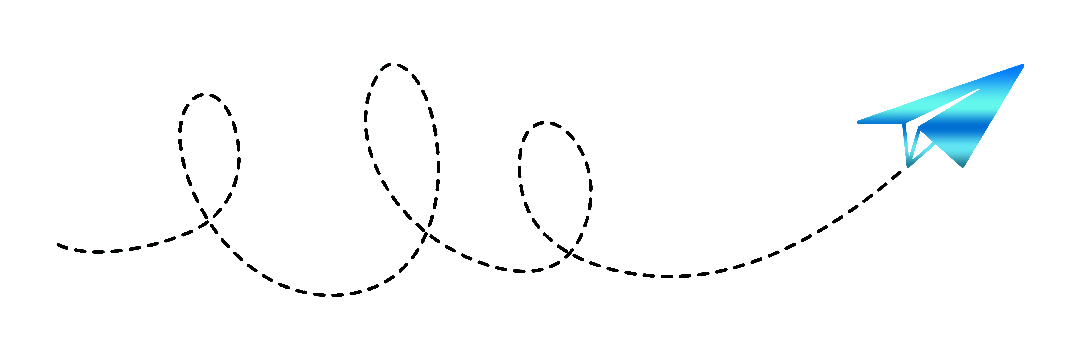
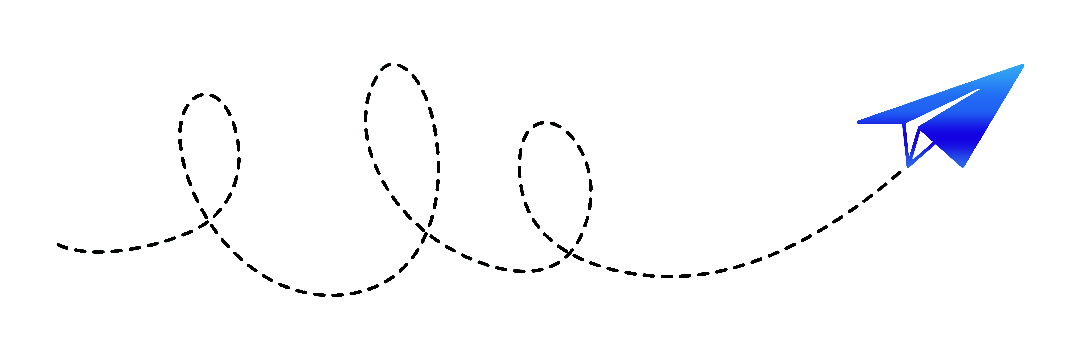
General update

Changed region(s): [[0.7937, 0.1833, 0.9463, 0.4583]]

diff --git a/src/app/profile/ProfileClient.tsx b/src/app/profile/ProfileClient.tsx
@@ -273,7 +273,7 @@ const ProfileClient: React.FC<ProfileClientProps> = ({
       // setPopupMessage('Withdraw method saved!');
       toast.success('Withdraw method saved!', {
         iconTheme: {
-            primary: 'linear-gradient(135deg, #08e2ff, #04aaff, #0066ff, #6adcff, #ffffff)',
+            primary: 'linear-gradient(135deg, #08e2ff, #04aaff, #0066ff, #0066ff, #ffffff)',
             secondary: '#fff',
         }
       });
@@ -293,7 +293,7 @@ const ProfileClient: React.FC<ProfileClientProps> = ({
       // setPopupMessage('Withdraw method deleted!');
       toast.success('Withdraw method deleted!', {
         iconTheme: {
-            primary: 'linear-gradient(135deg, #08e2ff, #04aaff, #0066ff, #6adcff, #ffffff)',
+            primary: 'linear-gradient(135deg, #08e2ff, #04aaff, #0066ff, #0066ff, #ffffff)',
             secondary: '#fff',
         }
       });
@@ -440,7 +440,7 @@ const ProfileClient: React.FC<ProfileClientProps> = ({
                 "w-[60px] h-[60px] rounded-full flex items-center justify-center text-white font-bold text-xl bg-black",
               )}
               // style={{
-              //   background: 'linear-gradient(135deg, #08e2ff, #04aaff, #0066ff, #6adcff, #ffffff)',
+              //   background: 'linear-gradient(135deg, #08e2ff, #04aaff, #0066ff, #0066ff, #ffffff)',
               // }}
               >
                 {initials}
@@ -801,7 +801,7 @@ const ProfileClient: React.FC<ProfileClientProps> = ({
                           // setPopupMessage('Password updated successfully!');
                           toast.success('Password updated successfully!', {
                             iconTheme: {
-                                primary: 'linear-gradient(135deg, #08e2ff, #04aaff, #0066ff, #6adcff, #ffffff)',
+                                primary: 'linear-gradient(135deg, #08e2ff, #04aaff, #0066ff, #0066ff, #ffffff)',
                                 secondary: '#fff',
                             }
                           });
@@ -1422,7 +1422,7 @@ const ProfileClient: React.FC<ProfileClientProps> = ({
                       // setPopupMessage('Card saved successfully!');
                       toast.success('Card saved successfully!', {
                         iconTheme: {
-                            primary: 'linear-gradient(135deg, #08e2ff, #04aaff, #0066ff, #6adcff, #ffffff)',
+                            primary: 'linear-gradient(135deg, #08e2ff, #04aaff, #0066ff, #0066ff, #ffffff)',
                             secondary: '#fff',
                         }
                       });

diff --git a/src/app/components/Footer.tsx b/src/app/components/Footer.tsx
@@ -1,7 +1,10 @@
 'use client';
 import { useState } from 'react';
-import { TbBrandTelegram, TbBrandTiktok, TbBrandInstagram, TbBrandFacebook, TbBrandX } from 'react-icons/tb';
+import { FaTelegram } from "react-icons/fa";
+import { FaYoutube } from "react-icons/fa";
 import { FiYoutube } from "react-icons/fi";
+import { PiTiktokLogoFill } from "react-icons/pi";
+import { PiInstagramLogoFill } from "react-icons/pi";
 import useMessenger from '@/app/hooks/useMessager';
 import Modal from './modals/Modal';
 import useLoginModal from '../hooks/useLoginModal';
@@ -306,16 +309,16 @@ const Footer: React.FC<FooterProps> = ({ currentUser }) => {
           {/* <h3 className="font-semibold text-lg mb-4 underline">Social channels</h3> */}
             <div className="flex space-x-4 text-xl">
               <div className=''>
-                <a href="#"><TbBrandTelegram className="hover:text-[#3604ff] text-3xl transition" /></a>
+                <a href="#"><FaTelegram className="hover:text-[#3604ff] text-3xl transition" /></a>
                 </div>
               <div className=''>
-                <a href="#"><FiYoutube className="hover:text-[#3604ff] text-3xl transition" /></a>
+                <a href="#"><FaYoutube className="hover:text-[#3604ff] text-3xl transition" /></a>
                 </div>
               <div className=''>
-                <a href="#"><TbBrandTiktok className="hover:text-[#3604ff] text-3xl transition" /></a>
+                <a href="#"><PiTiktokLogoFill className="hover:text-[#3604ff] text-3xl transition" /></a>
                 </div>
               <div className=''>
-                <a href="#"><TbBrandInstagram className="hover:text-[#3604ff] text-3xl transition" /></a>
+                <a href="#"><PiInstagramLogoFill className="hover:text-[#3604ff] text-3xl transition" /></a>
                 </div>
             </div>
         </div>

diff --git a/src/app/trips/TripsClient.tsx b/src/app/trips/TripsClient.tsx
@@ -61,7 +61,7 @@ const TripsClient: React.FC<TripsClientProps> = ({
   //       .then(() => {
   //         toast.success('Reservation cancelled!', {
   //           iconTheme: {
-  //               primary: 'linear-gradient(135deg, #08e2ff, #04aaff, #3604ff, #6adcff, #ffffff)',
+  //               primary: 'linear-gradient(135deg, #3d08ff, #04aaff, #3604ff, #0066ff, #3d08ff)',
   //               secondary: '#fff',
   //           }
   //       });
@@ -114,7 +114,7 @@ const TripsClient: React.FC<TripsClientProps> = ({
       });
       toast.success('Cancellation request submitted.', {
         iconTheme: {
-          primary: 'linear-gradient(135deg, #08e2ff, #04aaff, #3604ff, #6adcff, #ffffff)',
+          primary: 'linear-gradient(135deg, #3d08ff, #04aaff, #3604ff, #0066ff, #3d08ff)',
           secondary: '#fff',
         }
       });
@@ -146,7 +146,7 @@ const TripsClient: React.FC<TripsClientProps> = ({
       await axios.delete(`/api/reservations/${id}`);
       toast.success('Reservation cancelled!', {
         iconTheme: {
-          primary: 'linear-gradient(135deg, #08e2ff, #04aaff, #3604ff, #6adcff, #ffffff)',
+          primary: 'linear-gradient(135deg, #3d08ff, #04aaff, #3604ff, #0066ff, #3d08ff)',
           secondary: '#fff',
         }
       });
@@ -187,7 +187,7 @@ const TripsClient: React.FC<TripsClientProps> = ({
   
       toast.success('Review submitted!', {
         iconTheme: {
-            primary: 'linear-gradient(135deg, #08e2ff, #04aaff, #3604ff, #6adcff, #ffffff)',
+            primary: 'linear-gradient(135deg, #3d08ff, #04aaff, #3604ff, #0066ff, #3d08ff)',
             secondary: '#fff',
         },
       });

diff --git a/src/app/moderation/ModerClient.tsx b/src/app/moderation/ModerClient.tsx
@@ -80,7 +80,7 @@ const ModerationClient: React.FC<ModerationClientProps> = ({ currentUser }) => {
     try {
       const res = await axios.post('/api/analytics/withdraw', { userId: targetUserId });
       toast.success(res.data.message, {
-        iconTheme: { primary: 'linear-gradient(135deg, #08e2ff, #04aaff, #3604ff, #6adcff, #ffffff)', secondary: '#fff' },
+        iconTheme: { primary: 'linear-gradient(135deg, #3d08ff, #04aaff, #3604ff, #0066ff, #3d08ff)', secondary: '#fff' },
       });
       setTargetUserId('');
     } catch {
@@ -93,7 +93,7 @@ const ModerationClient: React.FC<ModerationClientProps> = ({ currentUser }) => {
     try {
       const res = await axios.post('/api/analytics/host/withdraw', { userId: targetUserId });
       toast.success(res.data.message, {
-        iconTheme: { primary: 'linear-gradient(135deg, #08e2ff, #04aaff, #3604ff, #6adcff, #ffffff)', secondary: '#fff' },
+        iconTheme: { primary: 'linear-gradient(135deg, #3d08ff, #04aaff, #3604ff, #0066ff, #3d08ff)', secondary: '#fff' },
       });
       setTargetUserId('');
     } catch {
@@ -121,7 +121,7 @@ const ModerationClient: React.FC<ModerationClientProps> = ({ currentUser }) => {
       // ❌ Delete reservation
       await axios.delete(`/api/reservations/${id}`);
       toast.success('Reservation cancelled', {
-        iconTheme: { primary: 'linear-gradient(135deg, #08e2ff, #04aaff, #3604ff, #6adcff, #ffffff)', secondary: '#fff' },
+        iconTheme: { primary: 'linear-gradient(135deg, #3d08ff, #04aaff, #3604ff, #0066ff, #3d08ff)', secondary: '#fff' },
       });
   
       // 📉 Decrement referral analytics if referralId exists

diff --git a/src/app/components/navbar/UserMenu.tsx b/src/app/components/navbar/UserMenu.tsx
@@ -217,7 +217,7 @@ const UserMenu: React.FC<UserMenuProps> = ({ currentUser }) => {
       <div
         className="w-8 h-8 rounded-full flex items-center justify-center text-white font-bold text-sm bg-black"
         // style={{
-        //   background: 'linear-gradient(135deg, #08e2ff, #04aaff, #0066ff, #6adcff, #ffffff)',
+        //   background: 'linear-gradient(135deg, #08e2ff, #04aaff, #0066ff, #0066ff, #ffffff)',
         // }}
       >
         {initials}
@@ -241,7 +241,7 @@ const UserMenu: React.FC<UserMenuProps> = ({ currentUser }) => {
       transition={{ type: 'spring', stiffness: 300, damping: 20 }}
       className="absolute -top-1 -right-1 text-white text-[10px] w-4 h-4 rounded-full flex items-center justify-center"
       style={{
-        background: 'linear-gradient(135deg, #08e2ff, #04aaff, #0066ff, #6adcff, #ffffff)',
+        background: 'linear-gradient(135deg, #08e2ff, #04aaff, #0066ff, #0066ff, #ffffff)',
       }}
     >
       {messenger.unreadCount}

diff --git a/src/app/components/modals/ExperienceModal.tsx b/src/app/components/modals/ExperienceModal.tsx
@@ -570,7 +570,7 @@ const ExperienceModal = ({ currentUser }: { currentUser: SafeUser | null }) => {
               : 'Listing submitted for review',
             {
               iconTheme: {
-                primary: 'linear-gradient(135deg, #3604ff, #04aaff, #3604ff, #6adcff, #ffffff)',
+                primary: 'linear-gradient(135deg, #3604ff, #04aaff, #3604ff, #0066ff, #ffffff)',
                 secondary: '#fff',
               },
             }
@@ -661,7 +661,7 @@ const ExperienceModal = ({ currentUser }: { currentUser: SafeUser | null }) => {
   //       .then(() => {
   //         toast.success('Listing created!', {
   //           iconTheme: {
-  //             primary: 'linear-gradient(135deg, #08e2ff, #04aaff, #3604ff, #6adcff, #ffffff)',
+  //             primary: 'linear-gradient(135deg, #3d08ff, #04aaff, #3604ff, #0066ff, #3d08ff)',
   //             secondary: '#fff',
   //           },
   //         });

diff --git a/src/app/components/modals/RegisterModal.tsx b/src/app/components/modals/RegisterModal.tsx
@@ -74,7 +74,7 @@ const RegisterModal = () => {
             .then(() => {
                 toast.success('Welcome to Vuoiaggio! Please log in to start exploring.', {
                     iconTheme: {
-                        primary: 'linear-gradient(135deg, #08e2ff, #04aaff, #3604ff, #6adcff, #ffffff)',
+                        primary: 'linear-gradient(135deg, #3d08ff, #04aaff, #3604ff, #0066ff, #3d08ff)',
                         secondary: '#fff',
                     },
                   });

diff --git a/src/app/properties/PropertiesClient.tsx b/src/app/properties/PropertiesClient.tsx
@@ -30,7 +30,7 @@ const PropertiesClient: React.FC<PropertiesClientProps> = ({
             .then(() => {
                 toast.success('Listing deleted!', {
                     iconTheme: {
-                        primary: 'linear-gradient(135deg, #08e2ff, #04aaff, #3604ff, #6adcff, #ffffff)',
+                        primary: 'linear-gradient(135deg, #3d08ff, #04aaff, #3604ff, #0066ff, #3d08ff)',
                         secondary: '#fff',
                     }
                 });

diff --git a/src/app/listings/[listingId]/ListingClient.tsx b/src/app/listings/[listingId]/ListingClient.tsx
@@ -117,7 +117,7 @@ const ListingClient: React.FC<ListingClientProps> = ({
             .then(() => {
                 toast.success('Listing reserved!', {
                     iconTheme: {
-                        primary: 'linear-gradient(135deg, #08e2ff, #04aaff, #3604ff, #6adcff, #ffffff)',
+                        primary: 'linear-gradient(135deg, #3d08ff, #04aaff, #3604ff, #0066ff, #3d08ff)',
                         secondary: '#fff',
                     }
                 });

diff --git a/src/app/hooks/useFavorite.tsx b/src/app/hooks/useFavorite.tsx
@@ -43,7 +43,7 @@ const useFavorite = ({ listingId, currentUser }: IUseFavorite) => {
             router.refresh();
             toast.success('Added to favorites', {
                 iconTheme: {
-                    primary: 'linear-gradient(135deg, #08e2ff, #04aaff, #3604ff, #6adcff, #ffffff)',
+                    primary: 'linear-gradient(135deg, #3d08ff, #04aaff, #3604ff, #0066ff, #3d08ff)',
                     secondary: '#fff',
                 }
             });

diff --git a/src/app/components/navbar/MenuItem.tsx b/src/app/components/navbar/MenuItem.tsx
@@ -41,7 +41,7 @@ interface MenuItemProps {
           <span 
           className="ml-2 text-xs text-white rounded-full px-2 py-0.5"
           style={{
-            background: 'linear-gradient(135deg, #08e2ff, #04aaff, #3604ff, #6adcff, #ffffff)',
+            background: 'linear-gradient(135deg, #3d08ff, #04aaff, #3604ff, #0066ff, #3d08ff)',
           }}
           >
             {badgeCount > 99 ? '99+' : badgeCount}

diff --git a/src/app/components/Avatar.tsx b/src/app/components/Avatar.tsx
@@ -34,7 +34,7 @@ const Avatar: React.FC<AvatarProps> = ({ src, name = 'U', size = 40 }) => {
         width: size,
         height: size,
         fontSize: `${size * 0.5}px`,
-        // background: 'linear-gradient(135deg, #08e2ff, #04aaff, #3604ff, #6adcff, #ffffff)',
+        // background: 'linear-gradient(135deg, #3d08ff, #04aaff, #3604ff, #0066ff, #3d08ff)',
       }}
     >
       {initials}
